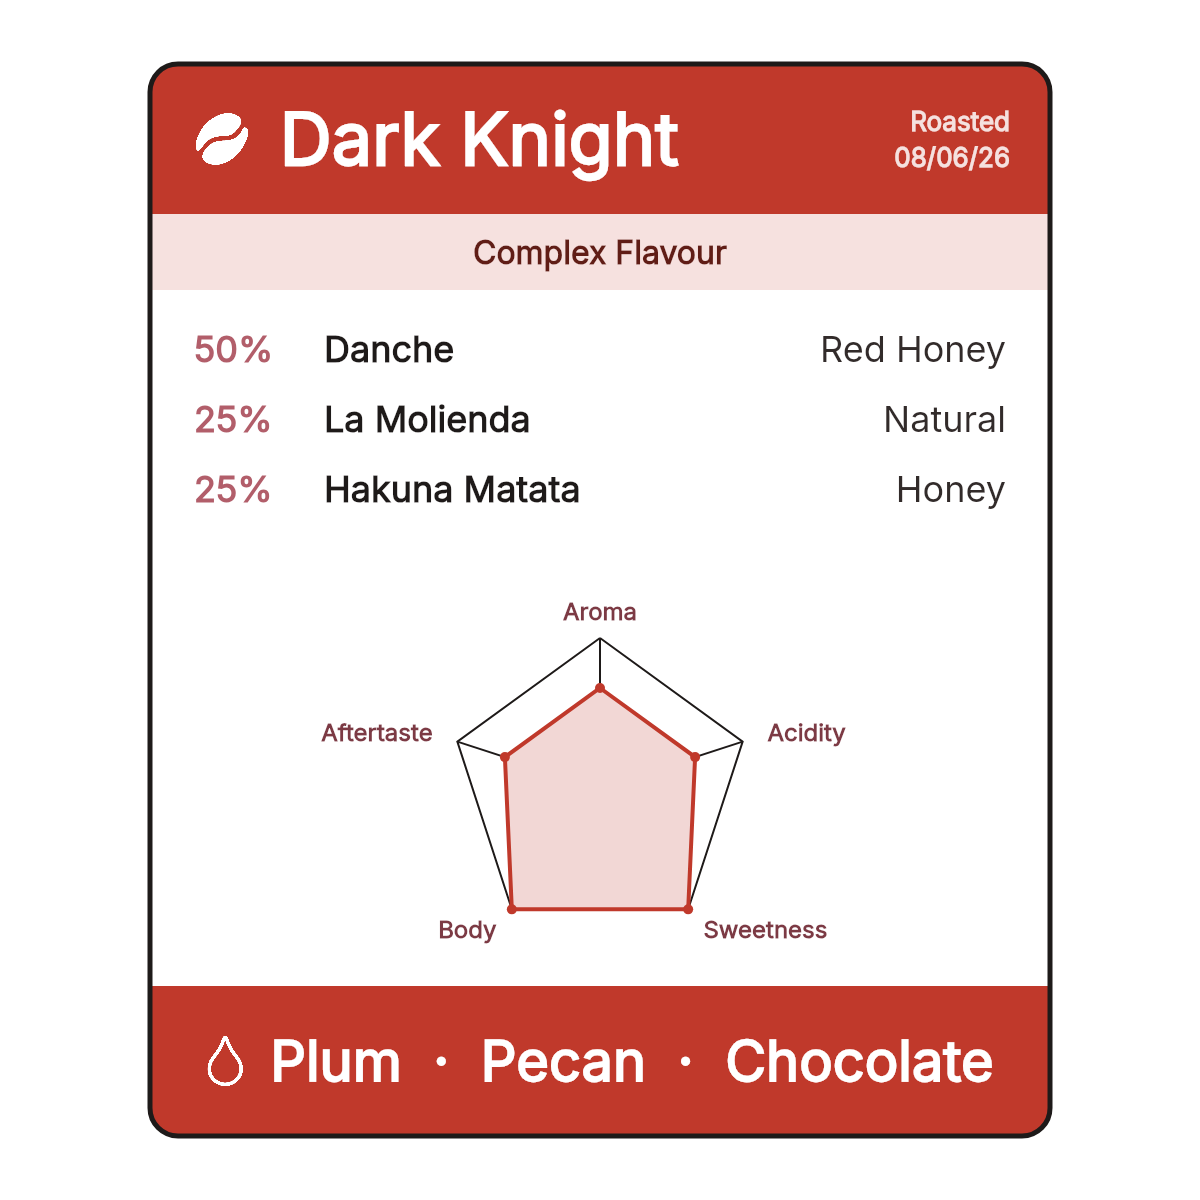
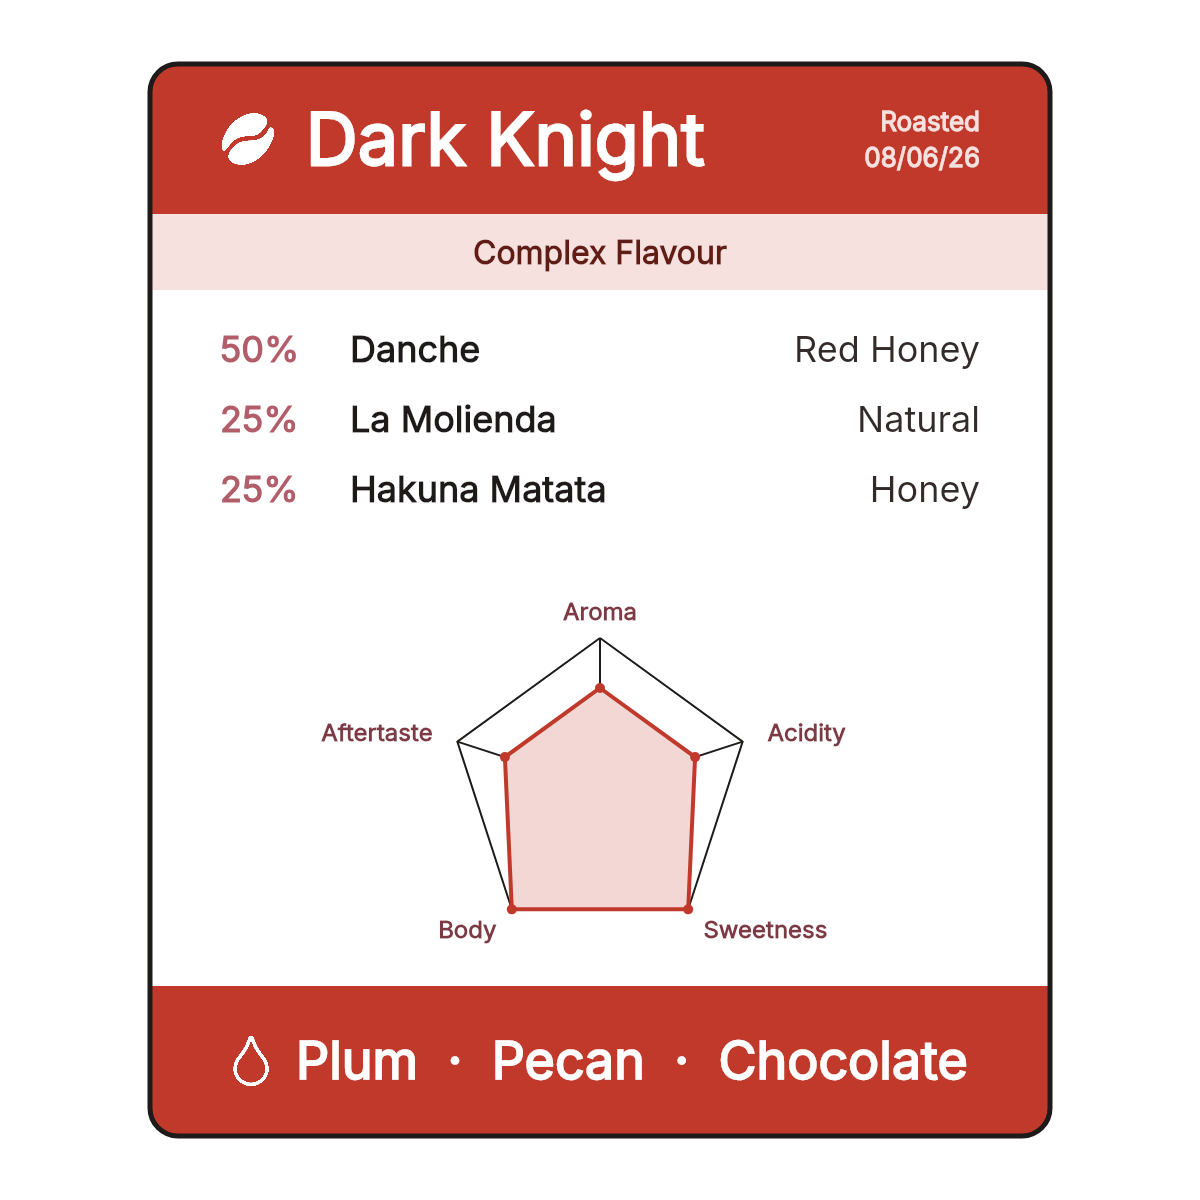
title

diff --git a/index.html b/index.html
@@ -5490,6 +5490,8 @@ fill="#6F4A36" stroke="none">
     /* square card with asymmetric safe margins — Square Online portrait hero
        crops ~150px off each side, so sides get 150px margin, top/bottom 64px */
     var CX=150,CY=64,CW=W-300,CH=H-128,CR=28;
+    /* text-safe zone: mobile portrait hero crops ~200px+ per side, so all text lives in the centre 760px */
+    var TSX=220,TEX=W-220,TW2=TEX-TSX;
     x.fillStyle='#ffffff';x.fillRect(0,0,W,H);
     var band=mnHexRgb(card.color)||[73,66,58];
     var lum=.299*band[0]+.587*band[1]+.114*band[2];
@@ -5504,18 +5506,18 @@ fill="#6F4A36" stroke="none">
     x.fillStyle=bandCss;x.fillRect(CX,CY,CW,headH);
     x.font='600 26px Inter, sans-serif';
     var hrW=card.roasted?Math.max(x.measureText('Roasted').width,x.measureText(card.roasted).width):0;
-    var nameX=CX+44;
+    var nameX=TSX;
     if(icons&&icons.bean){
       var bs=55,bw=bs*(icons.bean.width/icons.bean.height);
       x.drawImage(_tintIcon(icons.bean,tc,600),nameX,CY+(headH-bs)/2,bw,bs);
       nameX+=bw+30;
     }
-    var ns=_cardFit(x,card.name,'700',72,36,CX+CW-nameX-44-(hrW?hrW+40:0),'Inter, sans-serif');
+    var ns=_cardFit(x,card.name,'700',72,36,TEX-nameX-(hrW?hrW+40:0),'Inter, sans-serif');
     x.fillStyle=tc;x.fillText(card.name,nameX,CY+headH/2+ns*.36);
     if(card.roasted){
       x.globalAlpha=.85;x.font='600 26px Inter, sans-serif';x.textAlign='right';
-      x.fillText('Roasted',CX+CW-40,CY+headH/2-8);
-      x.fillText(card.roasted,CX+CW-40,CY+headH/2+28);
+      x.fillText('Roasted',TEX,CY+headH/2-8);
+      x.fillText(card.roasted,TEX,CY+headH/2+28);
       x.textAlign='left';x.globalAlpha=1;
     }
     var cy=CY+headH;
@@ -5523,7 +5525,7 @@ fill="#6F4A36" stroke="none">
     if(card.comment){
       var subH=76;
       x.fillStyle=lt;x.fillRect(CX,cy,CW,subH);
-      var cs=_cardFit(x,card.comment,'600',32,20,CW-88,'Inter, sans-serif');
+      var cs=_cardFit(x,card.comment,'600',32,20,TW2,'Inter, sans-serif');
       x.textAlign='center';x.fillStyle=dk;x.fillText(card.comment,CX+CW/2,cy+subH/2+cs*.36);
       x.textAlign='left';
       cy+=subH;
@@ -5535,10 +5537,10 @@ fill="#6F4A36" stroke="none">
       var fl=card.flavour.join('  \u00b7  ');
       var dw=0,ds=53,gap=26;
       if(icons&&icons.drop){dw=ds*(icons.drop.width/icons.drop.height);}
-      var fsz=_cardFit(x,fl,'700',56,28,CW-88-(dw?dw+gap:0),'Inter, sans-serif');
+      var fsz=_cardFit(x,fl,'700',56,28,TW2-(dw?dw+gap:0),'Inter, sans-serif');
       var tw=x.measureText(fl).width;
       var total=(dw?dw+gap:0)+tw;
-      var sx=CX+(CW-total)/2;
+      var sx=(W-total)/2;
       if(icons&&icons.drop){
         x.drawImage(_tintIcon(icons.drop,tc,600),sx,footY+(footH-ds)/2,dw,ds);
         sx+=dw+gap;
@@ -5547,19 +5549,19 @@ fill="#6F4A36" stroke="none">
     }
     /* ===== content: full-width rows, radar on its own centred row ===== */
     var zoneTop=cy,zoneBot=footY;
-    var Lx=CX+44,Rv=CX+CW-44;
+    var Lx=TSX,Rv=TEX;
     var ry=zoneTop+72;
     if(card.kind==='blend'){
       (card.recipe||[]).forEach(function(p){
         var pct=(p.pct||p.pct===0)?String(p.pct)+'%':'';
         if(pct){x.fillStyle=BERRY;x.font='700 36px Inter, sans-serif';x.fillText(pct,Lx,ry);}
         x.fillStyle=INK;
-        _cardFit(x,p.bean,'700',36,24,CW*0.5-(pct?130:0),'Inter, sans-serif');
+        _cardFit(x,p.bean,'700',36,24,TW2*0.55-(pct?130:0),'Inter, sans-serif');
         x.fillText(p.bean,Lx+(pct?130:0),ry);
         var meta=p.process||'';
         if(meta){
           x.textAlign='right';x.fillStyle='#322B2A';
-          _cardFit(x,meta,'400',36,20,CW*0.4,'Inter, sans-serif');
+          _cardFit(x,meta,'400',36,20,TW2*0.42,'Inter, sans-serif');
           x.fillText(meta,Rv,ry);x.textAlign='left';
         }
         ry+=70;
@@ -5573,7 +5575,7 @@ fill="#6F4A36" stroke="none">
       rows.forEach(function(r){
         x.fillStyle=INK;x.font='700 36px Inter, sans-serif';x.fillText(r[0],Lx,ry);
         x.textAlign='right';x.fillStyle='#322B2A';
-        _cardFit(x,String(r[1]),'400',36,20,CW-330,'Inter, sans-serif');
+        _cardFit(x,String(r[1]),'400',36,20,TW2-290,'Inter, sans-serif');
         x.fillText(String(r[1]),Rv,ry);
         x.textAlign='left';ry+=70;
       });
@@ -5583,7 +5585,7 @@ fill="#6F4A36" stroke="none">
     if(hasCup){
       var radarTop=ry+26,avail=zoneBot-radarTop-16;
       var R=Math.min(150,Math.floor(avail/2-36));
-      _cardRadar(x,CX+CW/2,radarTop+avail/2+4,R,card.cupScores,band);
+      _cardRadar(x,W/2,radarTop+avail/2+4,R,card.cupScores,band);
     }
     x.restore();
     _rrPath(x,CX,CY,CW,CH,CR);x.lineWidth=5;x.strokeStyle=INK;x.stroke();